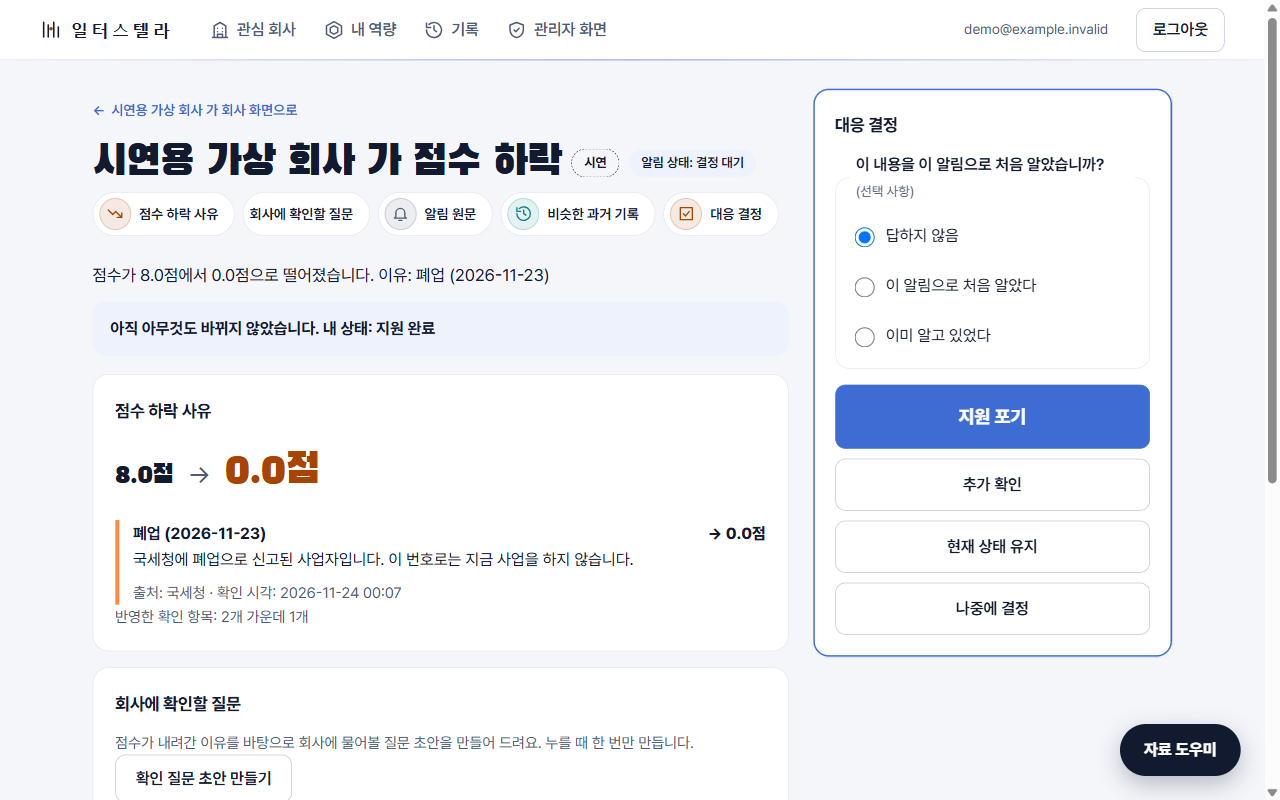
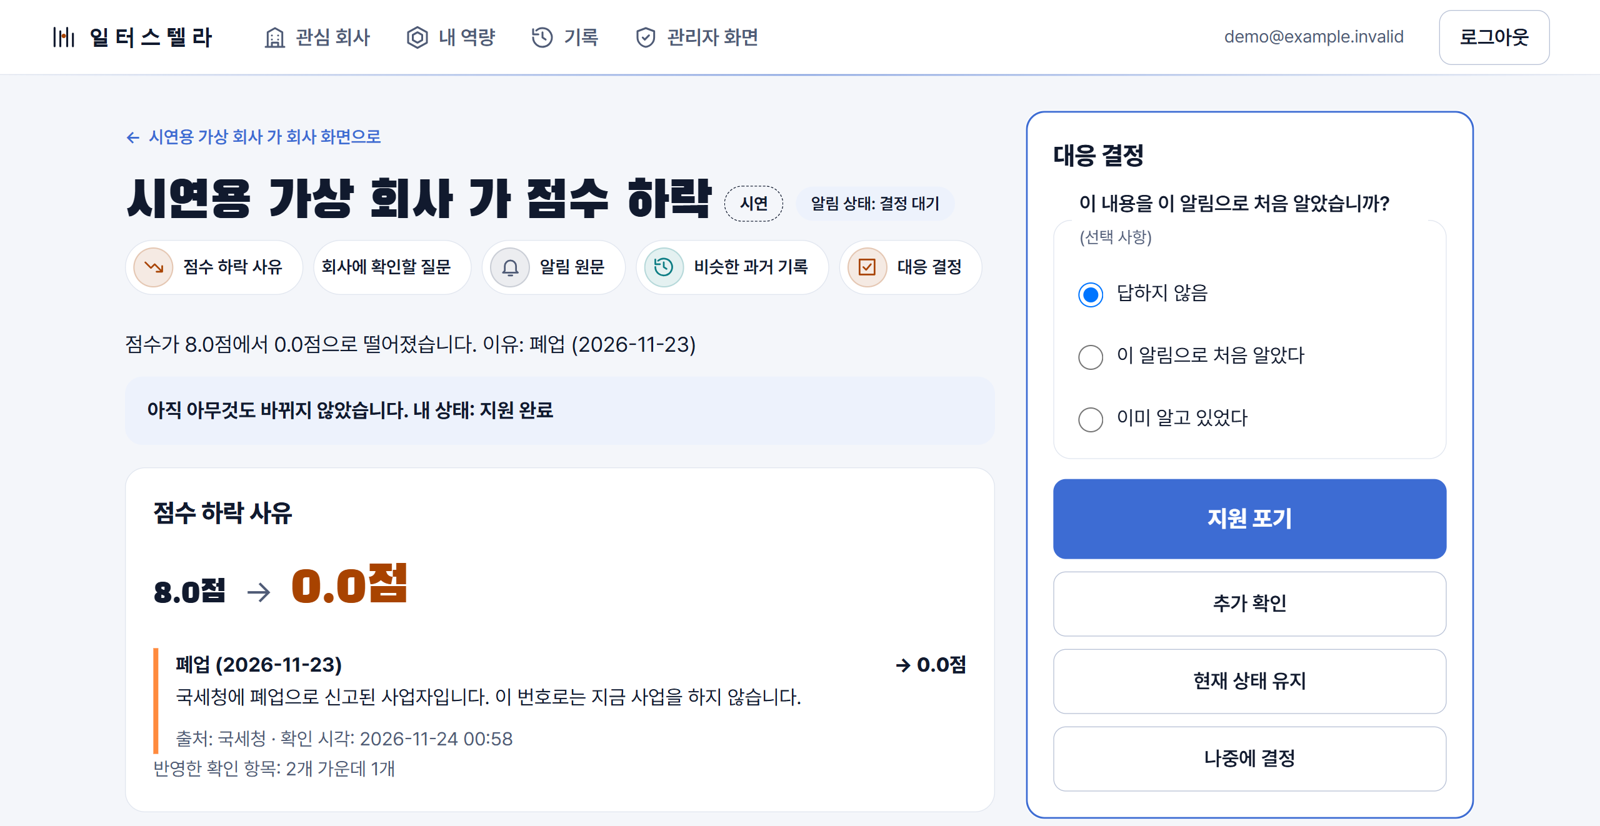
포트폴리오 화면 캡처 정리

diff --git a/style.css b/style.css
@@ -125,11 +125,10 @@ h4 { font-size: 15px; margin: 22px 0 8px; }
 .proj { display: grid; grid-template-columns: 1.75fr 1fr; gap: 40px; align-items: stretch; background: var(--alt); border: 1px solid var(--line); border-radius: 28px; padding: 40px; margin-bottom: 28px; }
 .proj.flip { grid-template-columns: 1fr 1.75fr; }
 .proj.flip .shot { order: 2; }
-/* 사진 두 장이 오른쪽 글과 같은 높이로 끝나게 나눠 채운다. 넘치는 부분은 아래쪽을 잘라 보여 주고, 누르면 원본이 열린다 */
-.proj .shot { display: flex; flex-direction: column; gap: 22px; margin: 0; }
-.proj .shot figure { margin: 0; flex: 1 1 0; min-height: 220px; display: flex; flex-direction: column; }
-.proj .shot .zoom { flex: 1 1 0; min-height: 0; display: block; }
-.proj .shot img { width: 100%; height: 100%; object-fit: cover; object-position: top left; border-radius: 16px; border: 1px solid var(--line); background: var(--card); box-shadow: 0 8px 28px rgba(20, 24, 50, .10); }
+/* 사진은 자르지 않는다. 두 장을 칸의 위·아래 끝에 붙여 글 칸과 끝을 맞춘다 */
+.proj .shot { display: flex; flex-direction: column; justify-content: space-between; gap: 22px; margin: 0; }
+.proj .shot figure { margin: 0; }
+.proj .shot img { width: 100%; height: auto; border-radius: 16px; border: 1px solid var(--line); background: var(--card); box-shadow: 0 8px 28px rgba(20, 24, 50, .10); }
 .zoom { display: block; cursor: zoom-in; border-radius: 16px; }
 .zoom:hover img { border-color: var(--accent); }
 .proj .shot figcaption { font-size: 13px; color: var(--muted); margin-top: 10px; }
@@ -207,8 +206,6 @@ table.log td:last-child { min-width: 150px; color: var(--muted); white-space: no
   .wb-cargo > div:nth-child(n+3) { border-top: 1px dashed var(--line); }
   .proj.flip { grid-template-columns: 1fr; }
   .proj.flip .shot { order: 0; }
-  .proj .shot figure, .proj .shot .zoom { flex: none; min-height: 0; }
-  .proj .shot img { height: auto; }
   .split .stick { position: static; }
   .steps { grid-template-columns: 1fr; }
   .steps::before { top: 9px; bottom: 9px; left: 9px; right: auto; width: 2px; height: auto; }
@@ -236,4 +233,3 @@ table.log td:last-child { min-width: 150px; color: var(--muted); white-space: no
 }
 @media print { .top { position: static; } .top button { display: none; } details.more > div { display: block; } }
 .proj .shot figure:last-child figcaption::after { content: " 사진을 누르면 크게 봅니다."; }
-.proj .shot img.pos-c { object-position: center center; }

diff --git a/index.html b/index.html
@@ -6,7 +6,7 @@
   <meta name="robots" content="noindex, nofollow">
   <title>최영완 | 물류 현장에서 출발한 업무 도구 포트폴리오</title>
   <meta name="description" content="물류 현장 출신이 AI와 함께 업무 도구를 만든 기록. 프로젝트 1·2·3과 납기 알리미.">
-  <link rel="stylesheet" href="style.css?v=11">
+  <link rel="stylesheet" href="style.css?v=12">
   <script src="theme.js"></script>
 </head>
 <body>
@@ -219,11 +219,11 @@
   <article class="proj flip" id="p3">
     <div class="shot">
     <figure>
-      <a class="zoom" href="img/p3-incident.png" target="_blank" rel="noopener" aria-label="화면 크게 보기 (새 탭)"><img src="img/p3-incident.png" width="1280" height="800" loading="lazy" alt="알림 확인 화면: 점수가 8.0점에서 0.0점으로 떨어진 이유(폐업, 국세청)와 사람이 고르는 대응 결정 버튼"></a>
+      <a class="zoom" href="img/p3-incident.png" target="_blank" rel="noopener" aria-label="화면 크게 보기 (새 탭)"><img src="img/p3-incident.png" width="1600" height="826" loading="lazy" alt="알림 확인 화면: 점수가 8.0점에서 0.0점으로 떨어진 이유(폐업, 국세청)와 사람이 고르는 대응 결정 버튼"></a>
       <figcaption>알림 확인 화면. 점수가 떨어진 이유와 출처를 보여 주고, 사람이 대응을 고르기 전에는 아무것도 바뀌지 않습니다. 화면은 팀원 A, 점수·사건·결정 규칙은 제가 맡았습니다.</figcaption>
     </figure>
     <figure>
-      <a class="zoom" href="img/p3-home.png" target="_blank" rel="noopener" aria-label="화면 크게 보기 (새 탭)"><img class="pos-c" src="img/p3-home.png" width="1440" height="900" loading="lazy" alt="일터스텔라 첫 화면: 관심 회사 목록과 점수 하락 알림 예시"></a>
+      <a class="zoom" href="img/p3-home.png" target="_blank" rel="noopener" aria-label="화면 크게 보기 (새 탭)"><img src="img/p3-home.png" width="1440" height="900" loading="lazy" alt="일터스텔라 첫 화면: 관심 회사 목록과 점수 하락 알림 예시"></a>
       <figcaption>서비스 첫 화면. 관심 회사의 점수와 확인할 알림을 예시로 보여 줍니다. 두 화면 모두 이 PC에서 시연 모드(가상 데이터)로 찍었습니다.</figcaption>
     </figure>
     </div>

diff --git a/worklog.html b/worklog.html
@@ -6,7 +6,7 @@
   <meta name="robots" content="noindex, nofollow">
   <title>날짜별 작업 기록 · 최영완</title>
   <meta name="description" content="몇 월 며칠에 어떤 작업을 했는지 커밋과 PR 기록에서 날짜별로 모은 기록">
-  <link rel="stylesheet" href="style.css?v=11">
+  <link rel="stylesheet" href="style.css?v=12">
   <script src="theme.js"></script>
 </head>
 <body>
